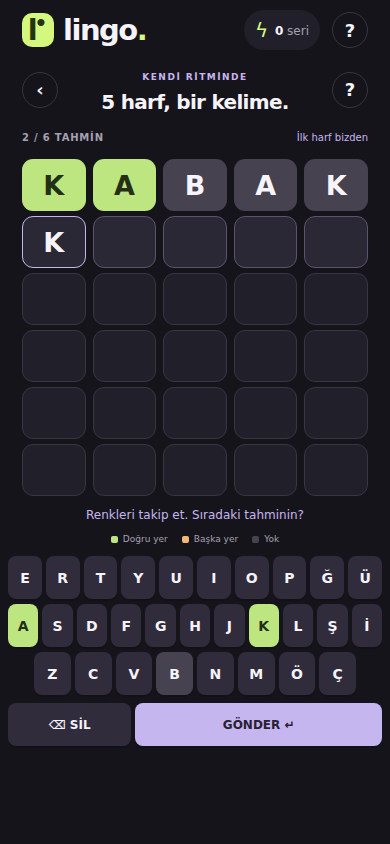
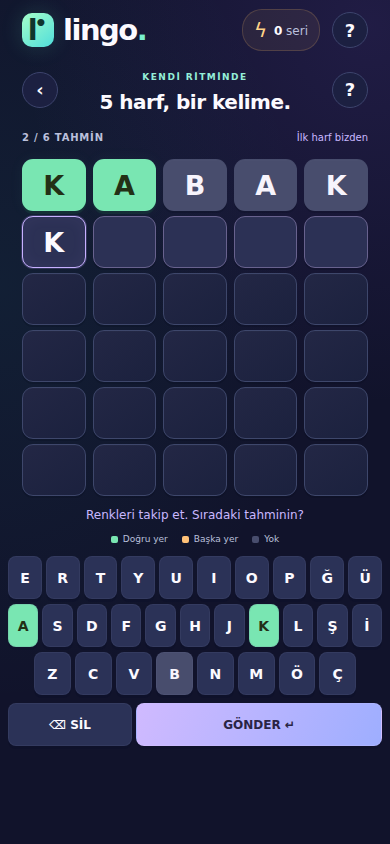
Refresh screenshots for Lingo 1.54.01 opening and vivid themes

diff --git a/README.md b/README.md
@@ -6,7 +6,7 @@
 
 Türkçe Lingo’nun Android sürümü: mobil tasarım, 44.056 kelime, çevrimdışı anlamlar ve animasyonlu oyun.
 
-<p align="center"><img src="docs/screenshots/home-dark.png" width="220" alt="Lingo koyu tema" /> <img src="docs/screenshots/game.png" width="220" alt="Türkçe Lingo oyun ekranı" /> <img src="docs/screenshots/home-light.png" width="220" alt="Lingo açık tema" /></p>
+<p align="center"><img src="docs/screenshots/splash.png" width="220" alt="Lingo animasyonlu açılış ekranı" /> <img src="docs/screenshots/home-dark.png" width="220" alt="Lingo koyu tema" /> <img src="docs/screenshots/game.png" width="220" alt="Türkçe Lingo oyun ekranı" /> <img src="docs/screenshots/home-light.png" width="220" alt="Lingo açık tema" /></p>
 
 [Android paketlerini indir](https://github.com/ilyasilmek/lingo/releases) · [Mobil arayüzü aç](https://ilyasilmek.github.io/lingo/mobile/) · [Derleme ve imzalama](docs/ANDROID.md)
 
